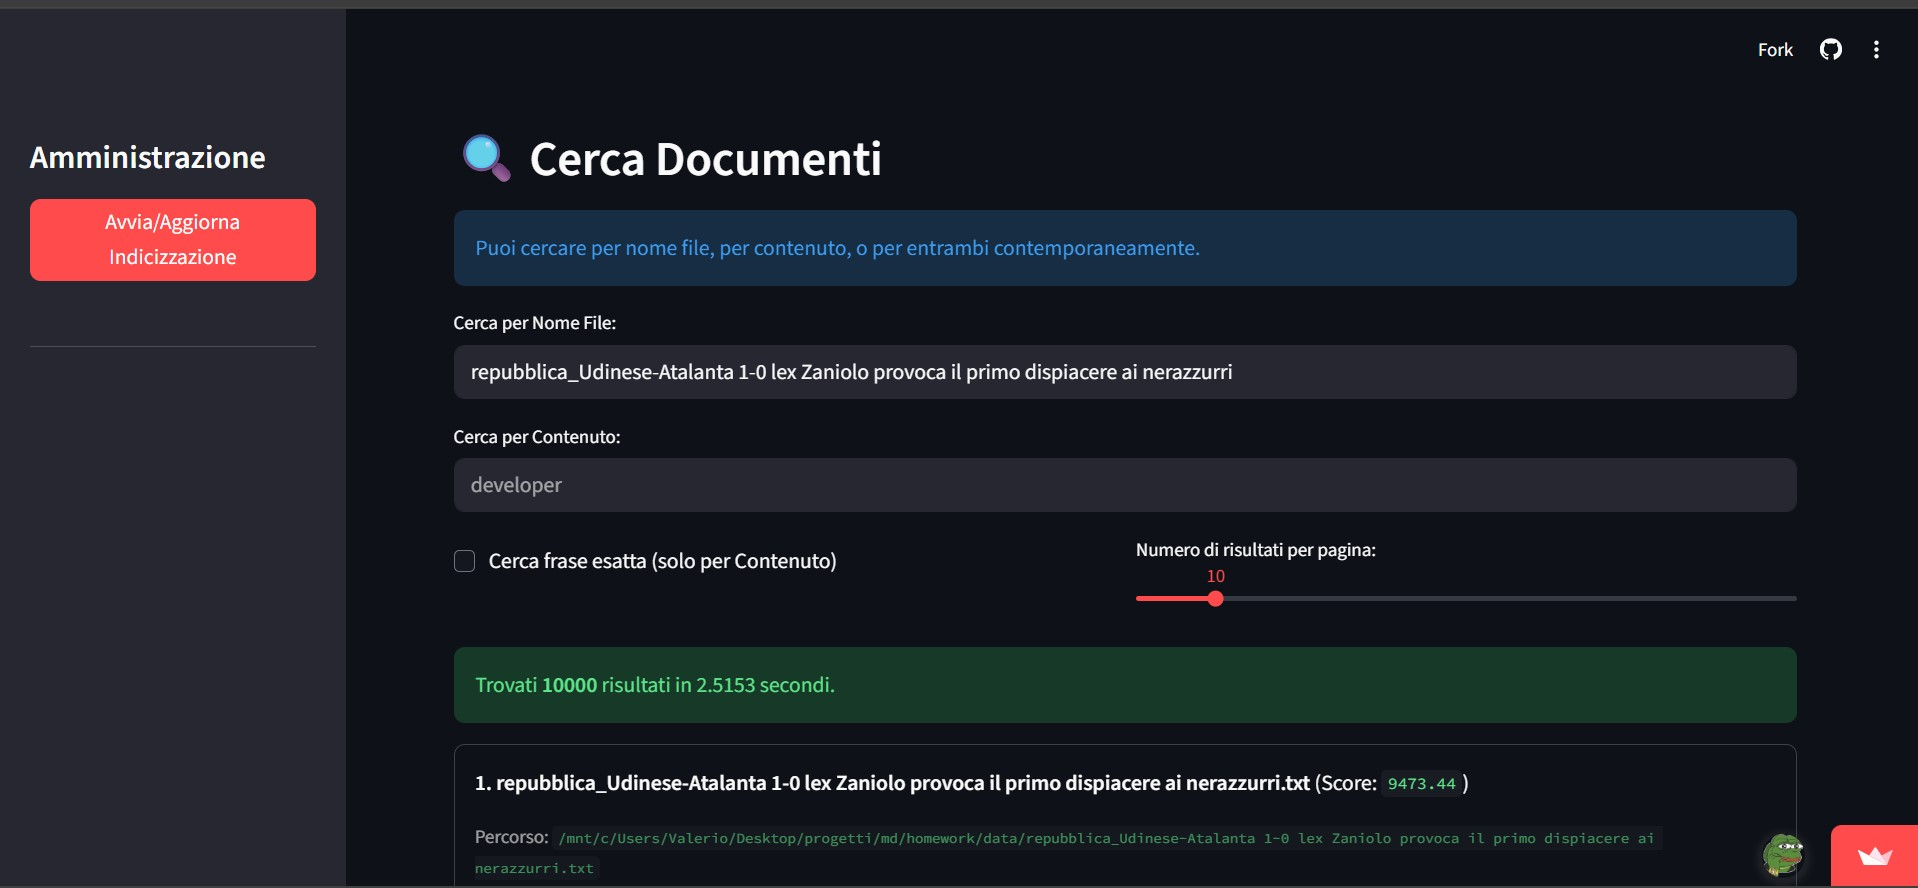
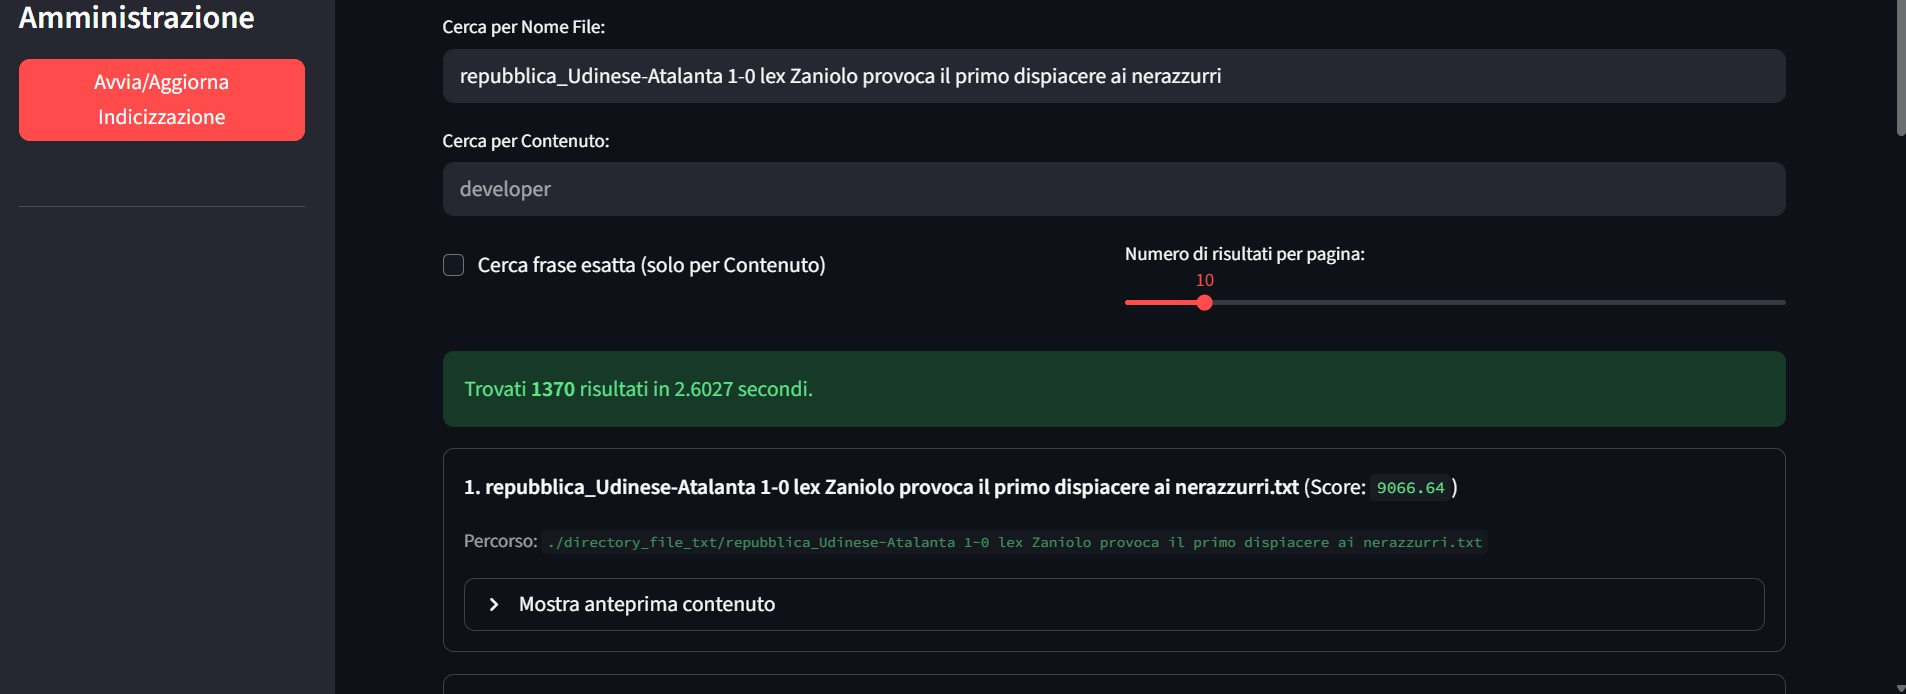
aggiornamento mapping e readme

Changed region(s): [[0.0, 0.0, 1.0, 1.0], [0.2167, 0.4841, 0.9596, 0.817], [0.2476, 0.8473, 0.7739, 0.9078]]

diff --git a/app/business/mapping.py b/app/business/mapping.py
@@ -8,6 +8,20 @@ def get_mapping():
     return {
         "settings": {
             "analysis": {
+                "tokenizer": {
+                    "ngram_tokenizer": {
+                        "type": "ngram",
+                        "min_gram": 2,
+                        "max_gram": 20,
+                        "token_chars": ["letter", "digit"]
+                    }
+                },
+                "filter": {
+                    "stemmer": {
+                        "type": "stemmer",
+                        "name": "italian"
+                    }
+                },
                 "analyzer": {
                     "filename_analyzer": {
                         "type": "custom",
@@ -23,22 +37,13 @@ def get_mapping():
                         "type": "custom",
                         "tokenizer": "keyword",
                         "filter": ["lowercase"]
+                    },
+                    "ngram_analyzer": {
+                        "type": "custom",
+                        "tokenizer": "ngram_tokenizer",
+                        "filter": ["lowercase", "asciifolding"]
                     }
                 },
-                "filter": {
-                    "stemmer": {
-                        "type": "stemmer",
-                        "name": "italian"
-                    }
-                },
-                "tokenizer": {
-                    "ngram_tokenizer": {
-                        "type": "ngram",
-                        "min_gram": 2,
-                        "max_gram": 20,
-                        "token_chars": ["letter", "digit"]
-                    }
-                }
             }
         },
         "mappings": {
@@ -49,7 +54,7 @@ def get_mapping():
                     "search_analyzer": "search_analyzer",
                     "fields": {
                         "keyword": {"type": "keyword"},
-                        "ngram": {"type": "text", "analyzer": "ngram_tokenizer"}
+                        "ngram": {"type": "text", "analyzer": "ngram_analyzer"}
                     }
                 },
                 "contenuto_file": {
@@ -57,7 +62,6 @@ def get_mapping():
                     "analyzer": "content_analyzer",
                     "search_analyzer": "search_analyzer",
                     "fields": {
-                        "keyword": {"type": "keyword"},
                         "italian": {"type": "text", "analyzer": "italian"},
                         "english": {"type": "text", "analyzer": "english"}
                     }

diff --git a/app/main.py b/app/main.py
@@ -46,8 +46,6 @@ if st.sidebar.button("Avvia/Aggiorna Indicizzazione", type="primary"):
             else:
                 st.info(f"Indice '{config.INDEX_NAME}' già esistente. Documenti aggiornati/aggiunti.")
 
-            st.success(f"Indicizzazione completata in {result['time']:.2f} secondi.")
-            st.info(f"Documenti indicizzati con successo: {result['indexed_docs']}")
             if result["errors"] > 0:
                 st.warning(f"Si sono verificati {result['errors']} errori.")
         else:

diff --git a/README.md b/README.md
@@ -2,7 +2,7 @@
 Applicazione web per indicizzare e ricercare file di testo (.txt) presenti in una directory locale.  
 Utilizza Elasticsearch per un'indicizzazione e una ricerca full-text efficienti, e Streamlit per un'interfaccia utente semplice e interattiva.
 
-## 💻 Prova l'App Online
+## Prova l'App Online
 
 Puoi testare direttamente l'applicazione, cliccando sul seguente link:
 
@@ -75,6 +75,9 @@ docker-compose up -d
 
 ### Ricerca per contenuto
 ![Indice contenuto](immagini/indice_contenuto.jpg)
+
+### Ricerca combinatoria
+![Ricerca combinatoria](immagini/ricerca_combinatoria.jpg)
 
 ### Ricerca avanzata
 ![Ricerca avanzata](immagini/ricerca_avanzata.jpg)
